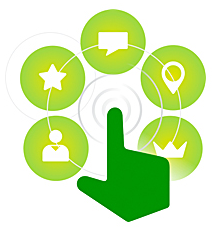
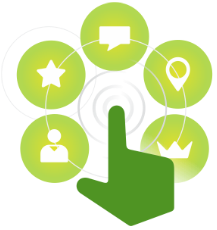
Изменения стилей и текстов

diff --git a/app/assets/stylesheets/home.css.scss b/app/assets/stylesheets/home.css.scss
@@ -110,6 +110,7 @@ $height_slide: 363px;
 				padding-top: 4em;
 				td {
 					padding-top: 1em;
+					vertical-align: top;
 					img {
 						width: 100%;
 					}
